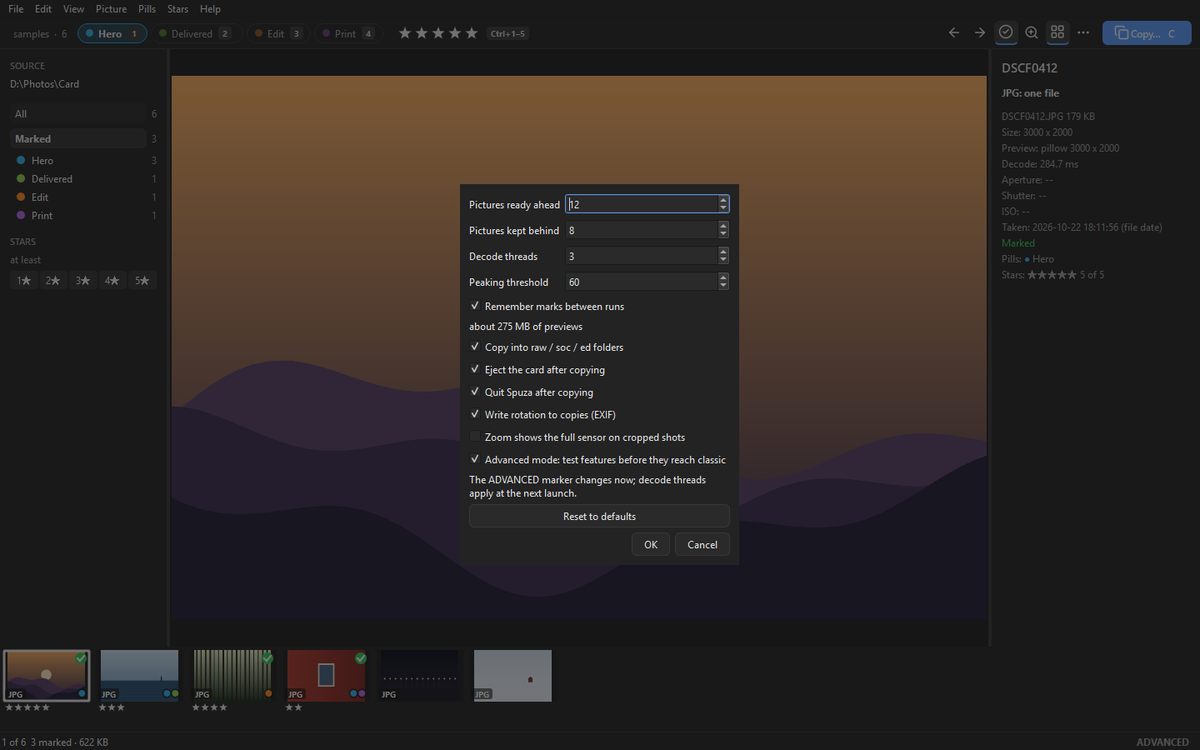
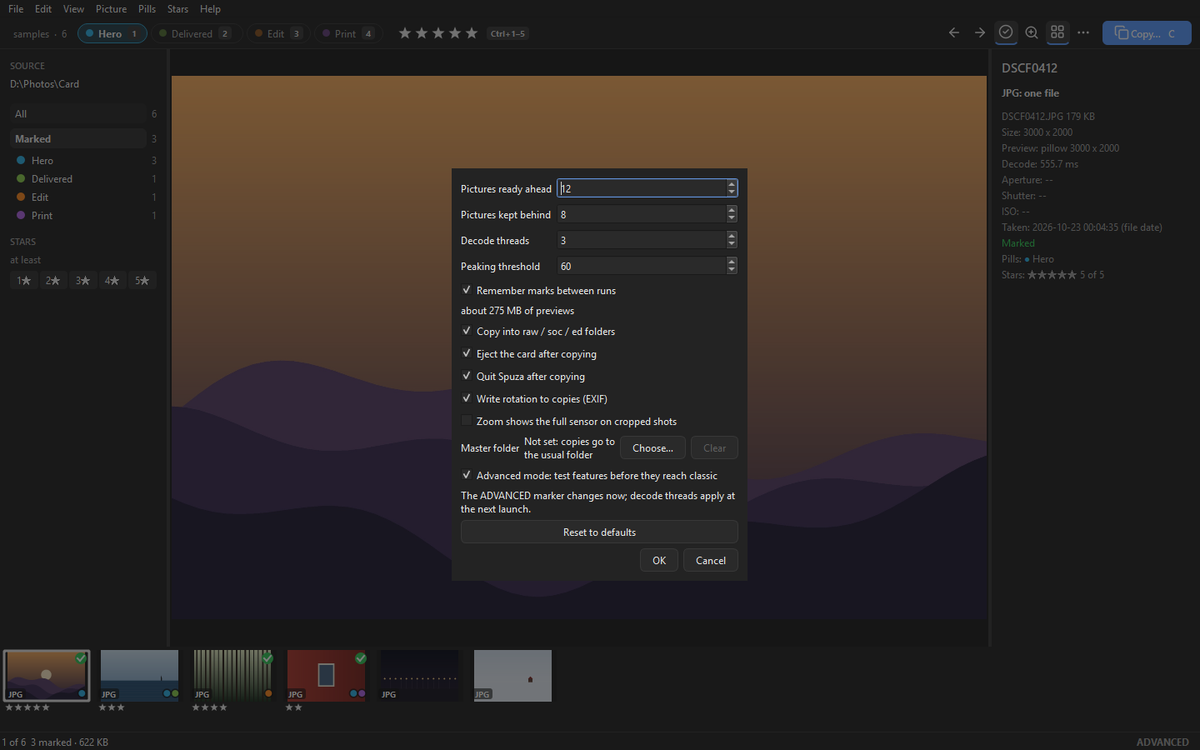
Release prep 0.15.0: README, version, lock, prefs screenshot

Changed region(s): [[0.37, 0.2147, 0.6475, 0.7667], [0.8942, 0.276, 0.925, 0.3067]]

diff --git a/README.md b/README.md
@@ -12,7 +12,7 @@
 <p align="center">
   <a href="https://github.com/dealunegru/Spuza/actions/workflows/ci.yml"><img src="https://github.com/dealunegru/Spuza/actions/workflows/ci.yml/badge.svg" alt="CI"></a>
   <a href="https://github.com/dealunegru/Spuza/releases/latest"><img src="https://img.shields.io/github/v/release/dealunegru/Spuza?label=release" alt="Latest release"></a>
-  <img src="https://img.shields.io/badge/version-0.14.0-informational" alt="Version 0.14.0">
+  <img src="https://img.shields.io/badge/version-0.15.0-informational" alt="Version 0.15.0">
 </p>
 
 **Mac** (Apple Silicon), in Terminal:
@@ -43,6 +43,14 @@ Update with `uv tool upgrade spuza`. There is also a [Mac app](#mac-app) on the 
 [What's new](#whats-new) · [The flow](#the-flow) · [Keys](#keys) · [Review](#review) · [Pills](#pills) · [Stars](#stars) · [Crop and story fit](#crop-and-story-fit) · [Copying](#copying) · [Preferences](#preferences) · [Classic and advanced](#classic-and-advanced-mode) · [Formats](#formats) · [Speed](#speed) · [Mac app](#mac-app) · [Command line](#command-line) · [Development](#development)
 
 ## What's new
+
+### 0.15.0
+
+The copy sheet is quicker. **Choose folder...** now starts the copy as soon as you pick the folder; cancel the dialog and nothing changes. If the folder does not have the space, nothing starts and the "Not enough space" line shows. After a copy has finished, choosing another folder copies the same pictures there too.
+
+Preferences has a **Master folder** row (**Choose...** and **Clear**, empty by default). With a master set, the copy sheet starts at `<master>/MM_DD` for today's date (`10_22` on 22 October), Enter copies there and the folder is created, and **Choose folder...** opens in the master. If the master is missing, say an unplugged drive, the sheet falls back to `~/Pictures/Spuza` and says so in one line; the master itself is never created.
+
+After a copy to a folder you chose, Spuza remembers that folder's parent (`/poze/10_22` gives `/poze`), so the next **Choose folder...** opens there. With a master set, the master wins unless the remembered parent is inside it. See [Copying](#copying).
 
 ### 0.14.0
 
@@ -239,7 +247,8 @@ Rules:
 
 ## Copying
 
-`C` opens the copy sheet. It starts at `~/Pictures/Spuza`, and you can pick any other folder.
+`C` opens the copy sheet. It starts at `~/Pictures/Spuza`, or at `<master>/MM_DD` for today's date (`10_22` on 22 October) when you have set a **Master folder** in Preferences: Enter copies there and the folder is created. If the master is missing (an unplugged drive), the sheet uses `~/Pictures/Spuza` and says so in one line; the master itself is never created.
+**Choose folder...** picks any other folder and starts the copy at once; cancel the dialog and nothing changes. If space is short nothing starts and the "Not enough space" line shows. After a finished copy, choosing another folder copies the same pictures there. The dialog opens in the master, or else in the parent of the last folder you copied to (`/poze/10_22` gives `/poze`); the master wins unless that parent is inside it.
 The sheet shows the plan before anything is copied: how many files, how many bytes (crop and story sizes are estimates), and what is already in that folder.
 
 <p align="center">
@@ -273,6 +282,7 @@ Other rules:
 
 - **Pictures ready ahead** (1-64, default 12) and **Pictures kept behind** (0-64, default 8). The memory those previews take is shown under the rows.
 - **Copy into raw / soc / ed folders**, **Eject the card after copying**, **Quit Spuza after copying** and **Write rotation to copies (EXIF)** (all default on): see [Copying](#copying).
+- **Master folder** (empty by default; **Choose...** and **Clear**): where the copy sheet puts today's `MM_DD` folder. See [Copying](#copying).
 - **Zoom shows the full sensor on cropped shots** (default off). Some cameras can crop a shot as they take it. With the row off, `Z` on such a shot shows the camera's own frame at 100%. With it on, `Z` shows the whole sensor at 100% instead, and the label says `100% · full sensor`. The fitted view, the review sheet and compare always show the camera's frame; uncropped shots and JPEGs are the same either way.
 - **Advanced mode**: see below.
 - Advanced mode only:
